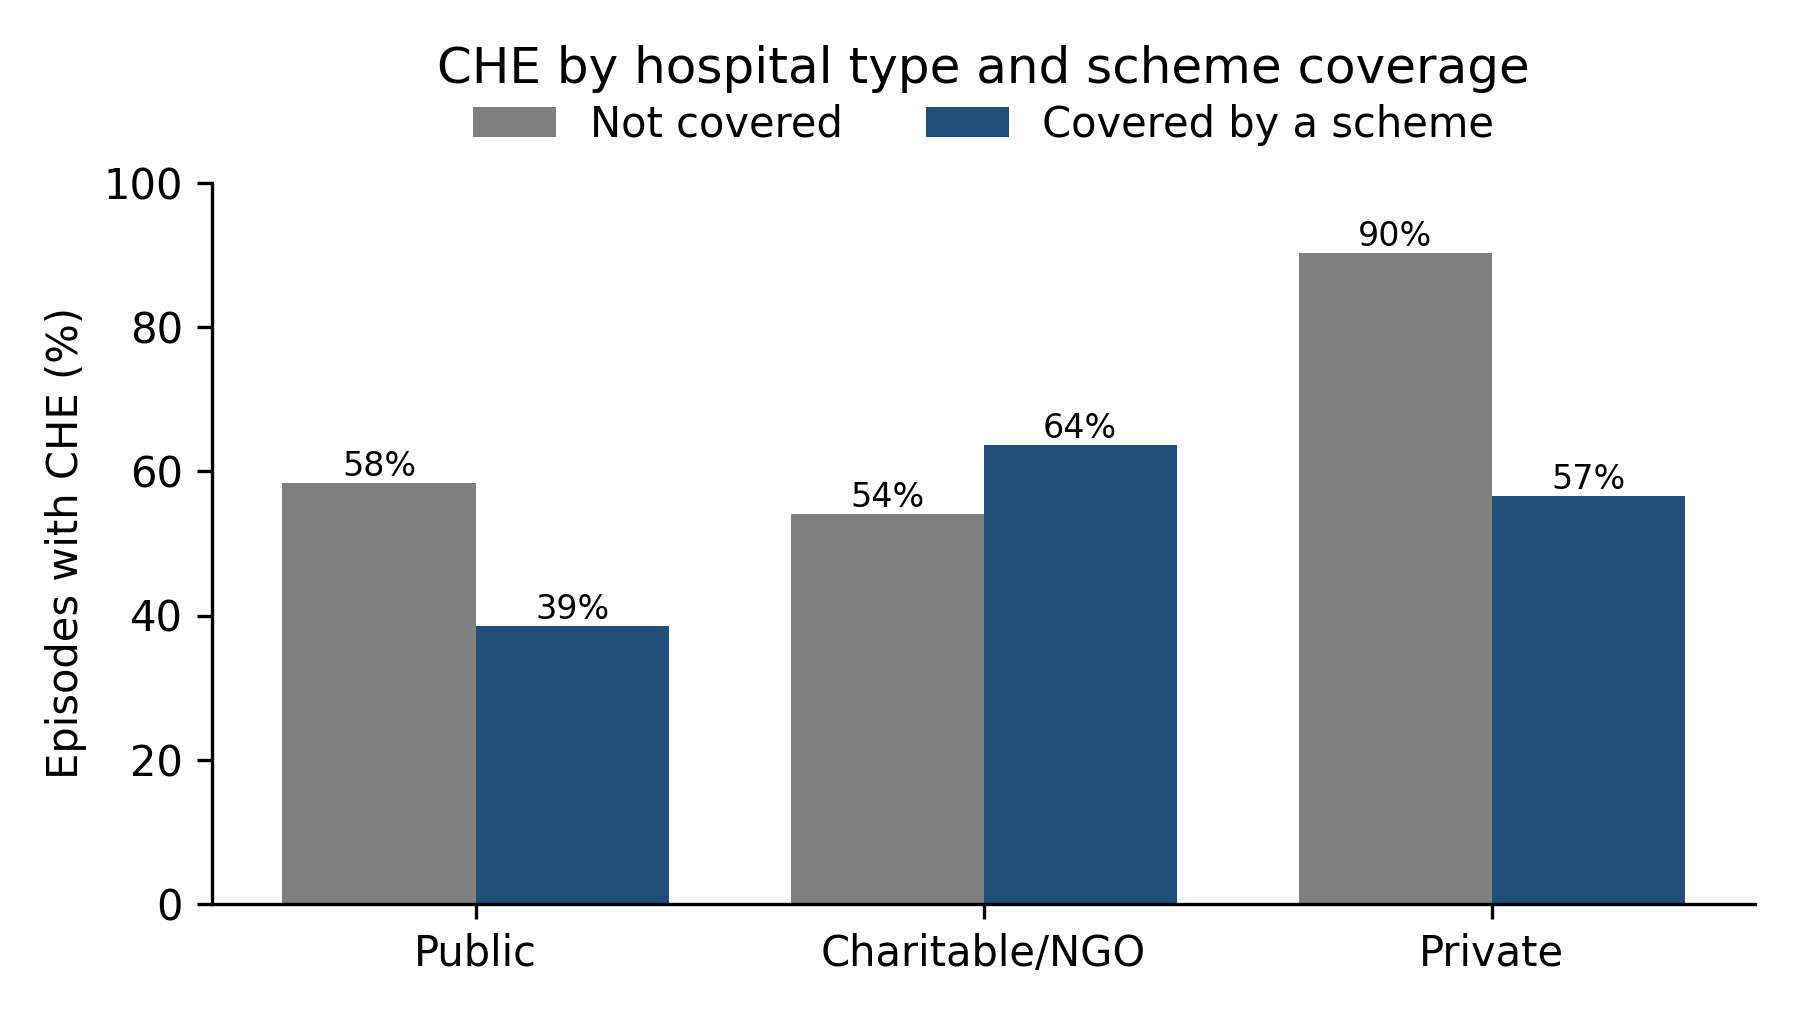
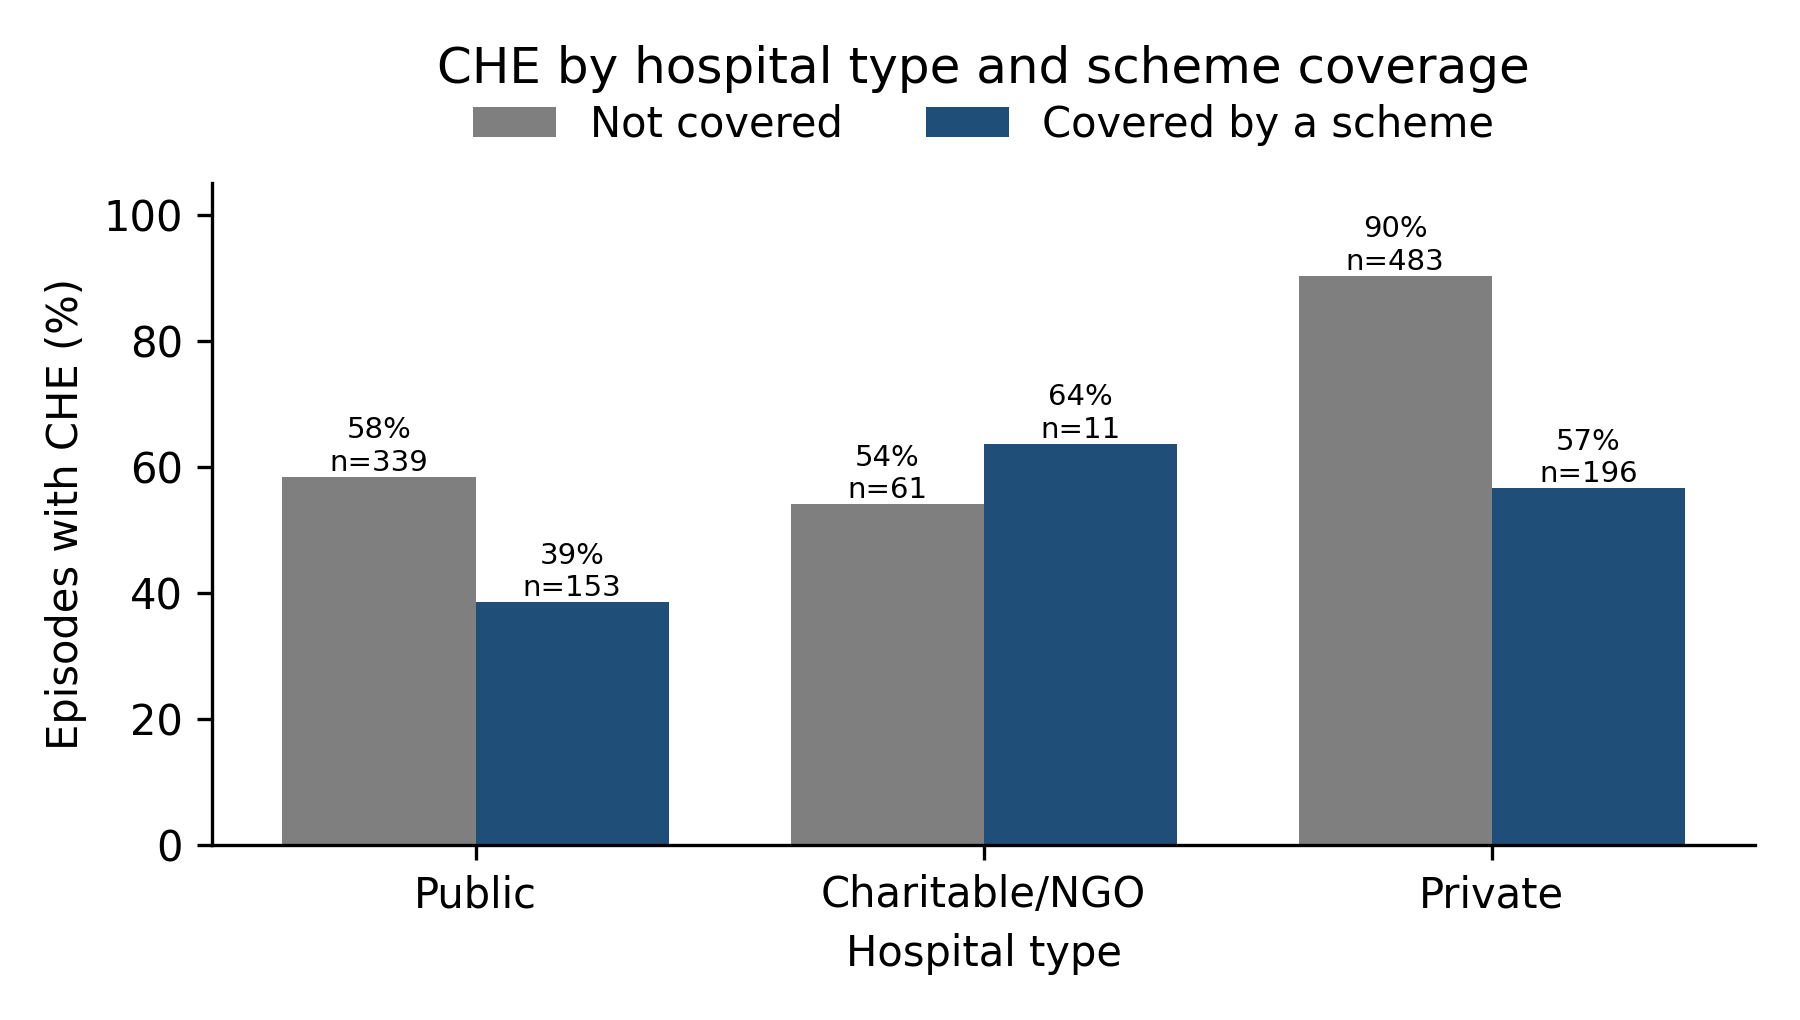
Updates graphs
rerun the code in my local, Verified changes are pushed for better inference on the EDA.

diff --git a/src/06_report_outputs.py b/src/06_report_outputs.py
@@ -17,6 +17,21 @@ plt.rcParams.update({"font.family": "DejaVu Sans", "font.size": 10, "axes.spines
 def save(fig, name):
     fig.tight_layout(); fig.savefig(OUT / f"{name}.png"); plt.close(fig)
 
+LABEL = {"log_oop": "ln(OOPE + 1)", "stay_days": "Length of stay", "age": "Age", "hh_size": "Household size",
+         "mpce_quintile": "MPCE quintile", "facility_public": "Public hospital", "surgery_received": "Surgery",
+         "insured": "Scheme coverage", "outside_state": "Outside home state", "outside_district": "Outside home district",
+         "che": "CHE", "ward_type": "Ward type", "female": "Female", "member_deceased": "Died or left household",
+         "sector_urban": "Urban", "social_group": "Social group"}
+RUPEE_TICKS = [(0, "0"), (100, "Rs 100"), (1e3, "Rs 1k"), (1e4, "Rs 10k"), (1e5, "Rs 1 lakh"), (1e6, "Rs 10 lakh")]
+
+def rupee_axis(ax, which="x"):
+    """Second axis that labels ln(OOPE + 1) values in rupees, so log units are readable."""
+    sec = ax.secondary_xaxis("top") if which == "x" else ax.secondary_yaxis("right")
+    pos, lab = [np.log1p(v) for v, _ in RUPEE_TICKS], [l for _, l in RUPEE_TICKS]
+    (sec.set_xticks if which == "x" else sec.set_yticks)(pos, lab)
+    sec.tick_params(labelsize=7, colors="#404040")
+    return sec
+
 def wmean(x, w):
     m = x.notna() & w.notna()
     return float(np.average(x[m], weights=w[m]))
@@ -68,15 +83,22 @@ summary["median_oop"], summary["mean_oop"] = float(d["oop_medical"].median()), f
 
 # ---------- Figures ----------
 fig, ax = plt.subplots(1, 2, figsize=(7.5, 3.2))
-ax[0].hist(d["oop_medical"] / 1000, bins=50, color=BLUE); ax[0].set(xlabel="OOPE per episode (Rs thousand)", ylabel="Episodes", title="A. Raw scale")
-ax[1].hist(d["log_oop"], bins=40, color=BLUE); ax[1].set(xlabel="ln(OOPE + 1)", ylabel="Episodes", title="B. Log scale")
+CAP = 500  # Rs thousand; the axis is cut at Rs 5 lakh so the bulk of the distribution is visible
+above = int((d["oop_medical"] / 1000 > CAP).sum())
+ax[0].hist((d["oop_medical"] / 1000).clip(upper=CAP + 10), bins=np.arange(0, CAP + 20, 10), color=BLUE)
+ax[0].set(xlabel="OOPE per episode (Rs thousand; Rs 10k bins)", ylabel="Episodes", title="A. Raw scale", xlim=(0, CAP + 20))
+ax[0].annotate(f"{above} episodes above\nRs 5 lakh (max Rs {d['oop_medical'].max() / 1e5:.1f} lakh)\nshown in the last bar",
+               xy=(CAP + 5, 5), xytext=(CAP * .55, ax[0].get_ylim()[1] * .55), fontsize=7, arrowprops=dict(arrowstyle="->", lw=.7))
+ax[1].hist(d["log_oop"], bins=40, color=BLUE); ax[1].set(xlabel="ln(OOPE + 1)", ylabel="Episodes", title="B. Log scale (all episodes)")
+rupee_axis(ax[1], "x")
 save(fig, "fig2_oope_distribution")
 
 fig, ax = plt.subplots(figsize=(6, 3.4))
 groups = [d.loc[d.facility_type == k, "log_oop"] for k in FAC]
 ax.boxplot(groups, tick_labels=[f"{v}\n(n={len(g)})" for v, g in zip(FAC.values(), groups)], patch_artist=True,
            boxprops=dict(facecolor="#BDD7EE"), medianprops=dict(color=ORANGE, lw=2))
-ax.set(ylabel="ln(OOPE + 1)", title="OOPE by type of hospital, 2017-18")
+ax.set(xlabel="Hospital type", ylabel="ln(OOPE + 1)", title="OOPE by type of hospital, 2017-18")
+rupee_axis(ax, "y")
 save(fig, "fig3_log_oope_by_facility")
 
 fig, ax = plt.subplots(figsize=(6, 3.4))
@@ -88,11 +110,13 @@ save(fig, "fig4_che_by_quintile")
 
 fig, ax = plt.subplots(figsize=(6, 3.4))
 t = d.groupby(["facility_type", "insured"])["che"].mean().unstack() * 100
+tn = d.groupby(["facility_type", "insured"])["che"].size().unstack()
 x = np.arange(len(t)); w = .38
 for i, (col, colr, lab) in enumerate([(0.0, GREY, "Not covered"), (1.0, BLUE, "Covered by a scheme")]):
     if col in t:
-        bb = ax.bar(x + (i - .5) * w, t[col].values, w, color=colr, label=lab); ax.bar_label(bb, fmt="%.0f%%", fontsize=8)
-ax.set_xticks(x, [FAC[k] for k in t.index]); ax.set(ylabel="Episodes with CHE (%)", ylim=(0, 100))
+        bb = ax.bar(x + (i - .5) * w, t[col].values, w, color=colr, label=lab)
+        ax.bar_label(bb, labels=[f"{v:.0f}%\nn={k}" for v, k in zip(t[col].values, tn[col].values)], fontsize=7)
+ax.set_xticks(x, [FAC[k] for k in t.index]); ax.set(xlabel="Hospital type", ylabel="Episodes with CHE (%)", ylim=(0, 105))
 ax.set_title("CHE by hospital type and scheme coverage", pad=24)
 ax.legend(frameon=False, ncol=2, loc="lower center", bbox_to_anchor=(0.5, 1.0))
 save(fig, "fig5_che_by_facility_insurance")
@@ -123,10 +147,12 @@ corr_cols = ["log_oop", "stay_days", "age", "hh_size", "mpce_quintile", "facilit
 c = d[corr_cols].corr(method="spearman")
 c.round(3).to_csv(OUT / "table_spearman.csv")
 fig, ax = plt.subplots(figsize=(6.5, 5.5))
-im = ax.imshow(c, cmap="RdBu_r", vmin=-1, vmax=1)
-ax.set_xticks(range(len(c)), c.columns, rotation=45, ha="right"); ax.set_yticks(range(len(c)), c.columns)
+lower = c.where(np.tril(np.ones(c.shape, dtype=bool)))   # lower triangle only: each pair shown once
+im = ax.imshow(lower, cmap="RdBu_r", vmin=-1, vmax=1)
+names_c = [LABEL.get(k, k) for k in c.columns]
+ax.set_xticks(range(len(c)), names_c, rotation=45, ha="right"); ax.set_yticks(range(len(c)), names_c)
 for i in range(len(c)):
-    for j in range(len(c)): ax.text(j, i, f"{c.iloc[i, j]:.2f}", ha="center", va="center", fontsize=7)
+    for j in range(i + 1): ax.text(j, i, f"{c.iloc[i, j]:.2f}", ha="center", va="center", fontsize=7)
 fig.colorbar(im, ax=ax, shrink=.8, label="Spearman rho"); ax.set_title("Spearman correlations among key variables")
 save(fig, "fig7_correlation")
 
@@ -136,12 +162,13 @@ sc = pd.DataFrame(r["rq1"]["scores"]).T.round(4); sc.to_csv(OUT / "table_rq1_mod
 fig, ax = plt.subplots(figsize=(6, 3.2))
 names = {"linear": "Linear (baseline)", "random_forest": "Random forest", "lightgbm": "LightGBM", "xgboost": "XGBoost"}
 bb = ax.bar([names[k] for k in sc.index], sc["mae_log"], color=[GREY] + [BLUE] * (len(sc) - 1))
-ax.bar_label(bb, fmt="%.3f"); ax.set(ylabel="MAE, ln(OOPE + 1)", title="RQ1: five-fold cross-validated MAE by model")
+ax.bar_label(bb, fmt="%.3f"); ax.set(xlabel="Model", ylabel="MAE, ln(OOPE + 1)", title="RQ1: five-fold cross-validated MAE by model")
 save(fig, "fig8_rq1_mae")
-imp = pd.Series(r["rq1"]["mean_abs_shap"]).sort_values()
+imp = pd.Series(r["rq1"]["mean_abs_shap"]).sort_values().rename(index=LABEL)
 fig, ax = plt.subplots(figsize=(6, 4)); ax.barh(imp.index, imp.values, color=BLUE)
 ax.set(xlabel="Mean |SHAP| on ln(OOPE + 1)", title="RQ1: XGBoost feature importance"); save(fig, "fig9_shap")
-orr = pd.DataFrame({"odds_ratio": r["rq2"]["odds_ratios"], "p": r["rq2"]["p"]}).drop(index="Intercept")
+orr = pd.DataFrame({"odds_ratio": r["rq2"]["odds_ratios"], "p": r["rq2"]["p"],
+                    "ci_low": r["rq2"].get("ci_low"), "ci_high": r["rq2"].get("ci_high")}).drop(index="Intercept")
 orr.round(4).to_csv(OUT / "table_rq2_odds_ratios.csv")
 fig, ax = plt.subplots(figsize=(6, 4.5))
 PRETTY = {"age": "Age (per year)", "female": "Female", "sector_urban": "Urban", "facility_public": "Public hospital",
@@ -150,10 +177,15 @@ PRETTY = {"age": "Age (per year)", "female": "Female", "sector_urban": "Urban", 
           "C(mpce_quintile)[T.4]": "MPCE Q4 (vs Q1)", "C(mpce_quintile)[T.5]": "MPCE Q5 (vs Q1)", "C(social_group)[T.2]": "SC (vs ST)",
           "C(social_group)[T.3]": "OBC (vs ST)", "C(social_group)[T.9]": "Others (vs ST)"}
 o = orr.sort_values("odds_ratio").rename(index=PRETTY)
-ax.scatter(o["odds_ratio"], o.index, color=[ORANGE if p < .05 else GREY for p in o["p"]])
+cols = [ORANGE if p < .05 else GREY for p in o["p"]]
+if o["ci_low"].notna().all():   # 95% confidence intervals (needs results.json from the updated step 3)
+    ax.errorbar(o["odds_ratio"], o.index, xerr=[o["odds_ratio"] - o["ci_low"], o["ci_high"] - o["odds_ratio"]],
+                fmt="none", ecolor="#A0A0A0", elinewidth=1, capsize=2, zorder=1)
+ax.scatter(o["odds_ratio"], o.index, color=cols, zorder=2)
 ax.axvline(1, color="black", lw=.8); ax.set_xscale("log")
-from matplotlib.ticker import FuncFormatter; ax.xaxis.set_major_formatter(FuncFormatter(lambda v, _: f"{v:g}"))
-ax.set(xlabel="Odds ratio for CHE (log scale; orange = p < .05)", title="RQ2: logistic regression for CHE"); save(fig, "fig10_rq2_or")
+ticks = [t for t in (0.1, 0.2, 0.5, 1, 2, 5) if o[["odds_ratio", "ci_low", "ci_high"]].min().min() * .8 <= t <= o[["odds_ratio", "ci_low", "ci_high"]].max().max() * 1.25]
+ax.set_xticks(ticks, [f"{t:g}" for t in ticks]); ax.xaxis.set_minor_formatter(plt.NullFormatter())
+ax.set(xlabel="Odds ratio for CHE with 95% CI (log scale; orange = p < .05)", title="RQ2: logistic regression for CHE"); save(fig, "fig10_rq2_or")
 
 # ---------- 2025 (RQ4) ----------
 f80 = PROCESSED / "cancer_episodes_nss80.csv"
@@ -172,8 +204,10 @@ if f80.exists():
     fig, ax = plt.subplots(figsize=(6, 3.4)); x = np.arange(3); w = .38
     for i, (lab, dd, colr) in enumerate([("2017-18", d, BLUE), ("2025", d80, ORANGE)]):
         v = [100 * dd.loc[dd.facility_type == k, "che"].mean() for k in FAC]
-        bb = ax.bar(x + (i - .5) * w, v, w, color=colr, label=lab); ax.bar_label(bb, fmt="%.0f%%", fontsize=8)
-    ax.set_xticks(x, FAC.values()); ax.set(ylabel="Episodes with CHE (%)", ylim=(0, 100), title="RQ4: CHE by hospital type, 2017-18 vs 2025")
+        nn = [int((dd.facility_type == k).sum()) for k in FAC]
+        bb = ax.bar(x + (i - .5) * w, v, w, color=colr, label=lab)
+        ax.bar_label(bb, labels=[f"{a:.0f}%\nn={b:,}" for a, b in zip(v, nn)], fontsize=7)
+    ax.set_xticks(x, FAC.values()); ax.set(xlabel="Hospital type", ylabel="Episodes with CHE (%)", ylim=(0, 105), title="RQ4: CHE by hospital type, 2017-18 vs 2025")
     ax.set_title(ax.get_title(), pad=24); ax.legend(frameon=False, ncol=2, loc="lower center", bbox_to_anchor=(0.5, 1.0)); save(fig, "fig11_rq4_che_by_survey")
 
 json.dump(summary, open(OUT / "eda_summary.json", "w"), indent=2, default=float)

diff --git a/src/03_models_and_tests.py b/src/03_models_and_tests.py
@@ -66,7 +66,9 @@ def rq1(df, feats=FEATS):
 def rq2(df, feats=FEATS):
     terms = [t for t in RQ2_TERMS if t.removeprefix("C(").removesuffix(")") in feats]
     m = smf.logit("che ~ " + " + ".join(terms), data=df.dropna(subset=feats)).fit(disp=0)
-    return {"n": int(m.nobs), "odds_ratios": np.exp(m.params).to_dict(), "p": m.pvalues.to_dict(), "pseudo_r2": m.prsquared}
+    ci = np.exp(m.conf_int())                                                  # 95% CI on the odds-ratio scale
+    return {"n": int(m.nobs), "odds_ratios": np.exp(m.params).to_dict(), "p": m.pvalues.to_dict(), "pseudo_r2": m.prsquared,
+            "ci_low": ci[0].to_dict(), "ci_high": ci[1].to_dict()}
 
 def rq3(df):
     pub, pvt = df.loc[df["facility_type"] == 1, "log_oop"], df.loc[df["facility_type"] == 3, "log_oop"]

diff --git a/tests/test_pipeline.py b/tests/test_pipeline.py
@@ -148,3 +148,8 @@ def test_shared_features_drop_fields_missing_in_2025(rerun, models, episodes):
     d80["hh_size"] = np.nan                                           # a column that exists but is empty is dropped too
     shared = rerun.shared_features(d80)
     assert shared == [f for f in models.FEATS if f not in ("ward_type", "stay_days", "surgery_received", "hh_size")]
+
+def test_rq2_confidence_intervals_bracket_odds_ratios(models, episodes):
+    r = models.rq2(episodes)
+    for term, orv in r["odds_ratios"].items():
+        assert r["ci_low"][term] < orv < r["ci_high"][term]
